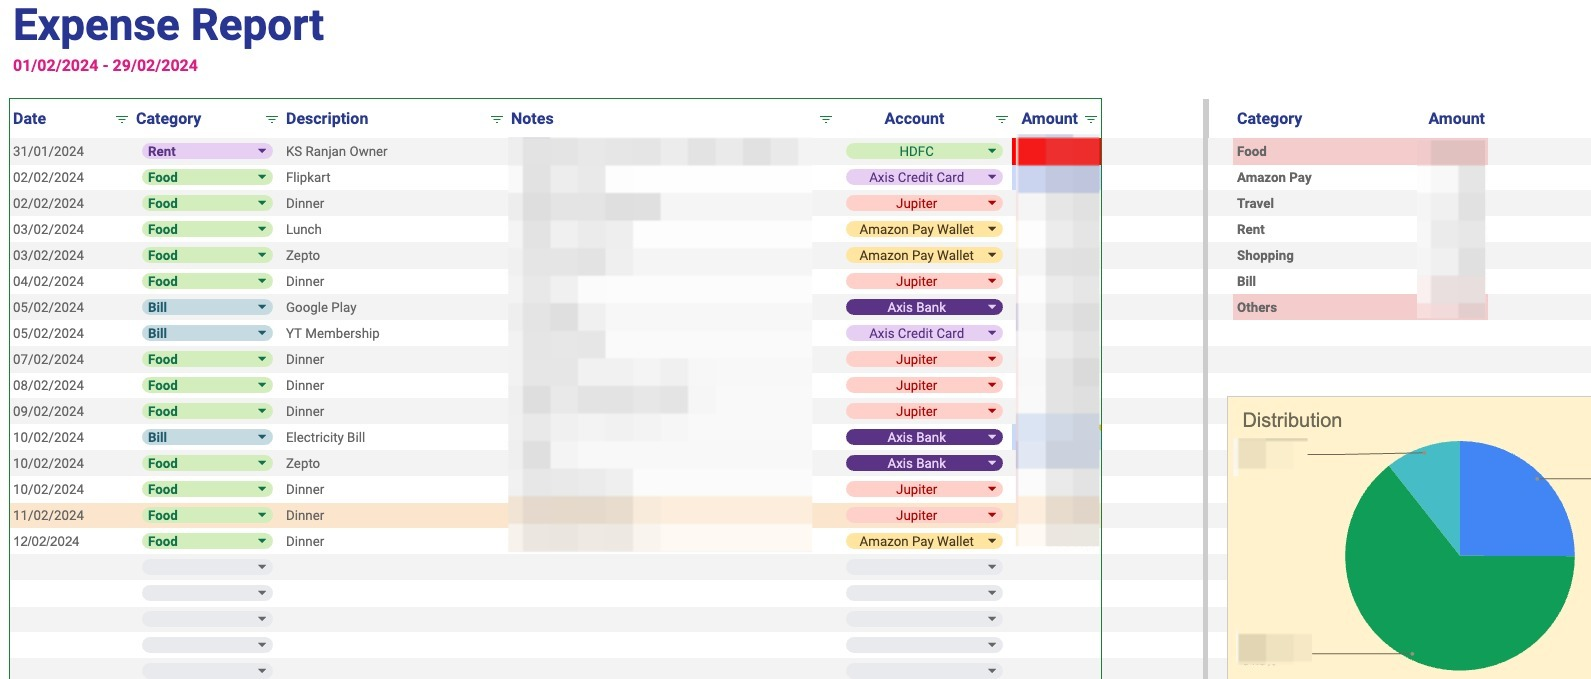
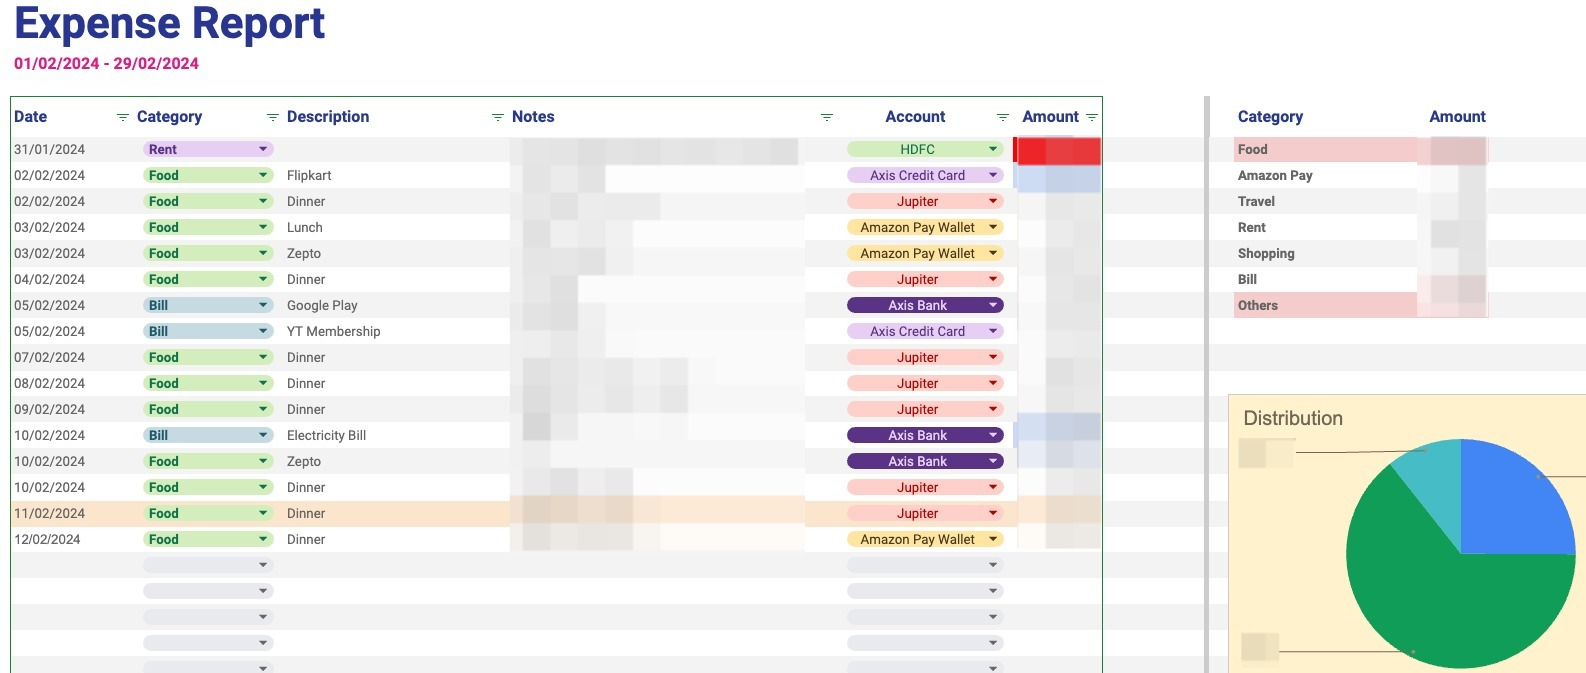
update README, add sample env

diff --git a/README.md b/README.md
@@ -29,9 +29,9 @@ Then I thought of creating a simple scheduler which read my responses and put th
 
 ![Architecture](repo-assets/image.png)
 
-### Demos
+### Sheet Preview
 
-![Google Sheet](repo-assets/image-1.png)
+![Google Sheets](repo-assets/image-1.png)
 
 ### Deployment
 
